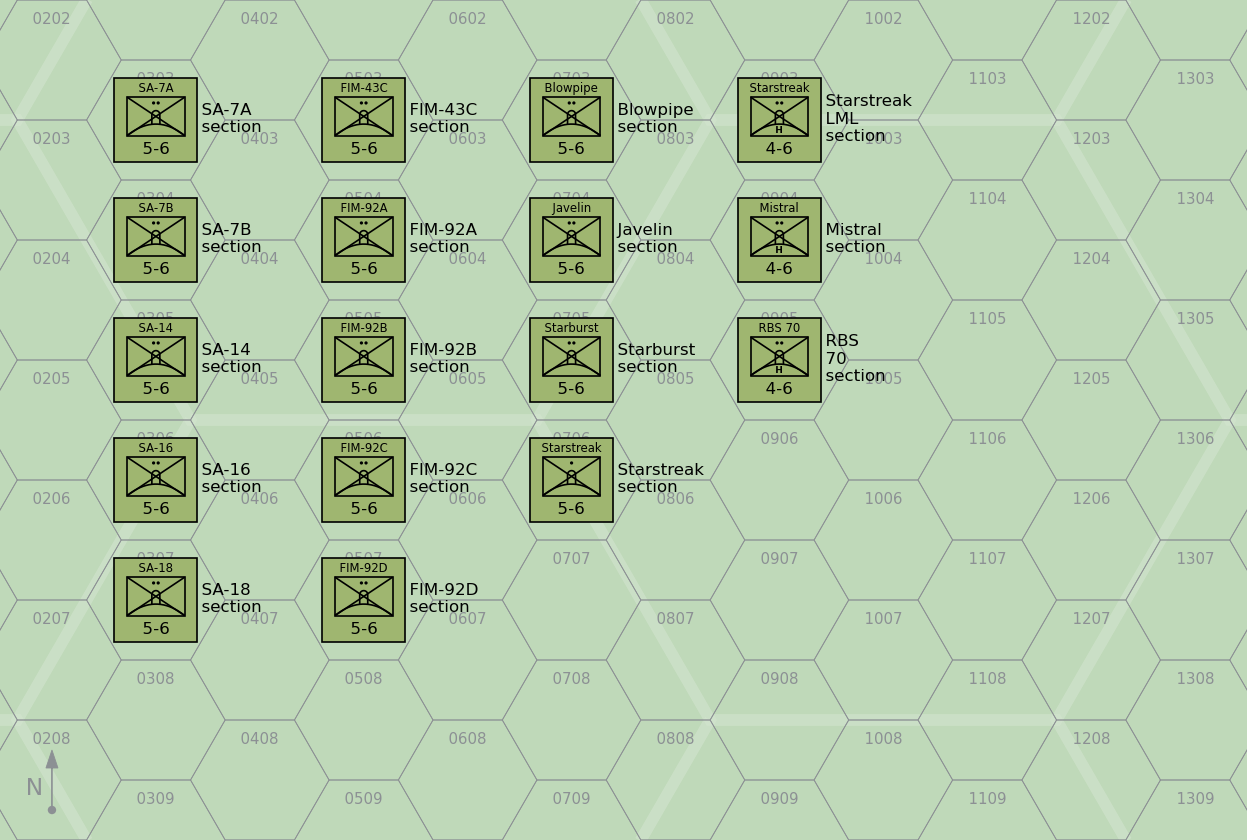
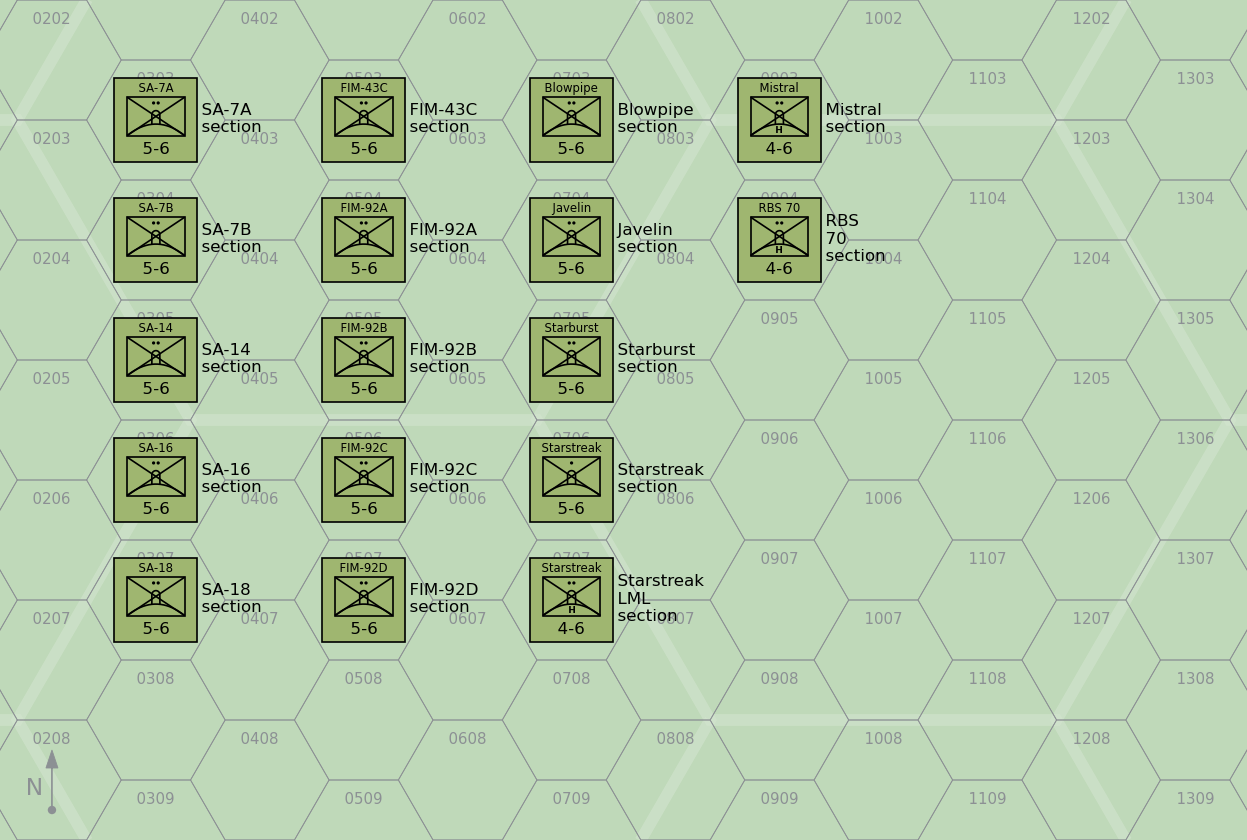
Heavy infantry SAMs have unlimited mobility

diff --git a/groundunitdatatables/groundunitdata.tex b/groundunitdatatables/groundunitdata.tex
@@ -88,9 +88,9 @@ A ground unit can be a hard, open, or soft target according to the degree to whi
 
 A ground unit has a mobility that can place limits on where it may be placed at the start of a game and move on the map. A ground unit can have unrestricted (U), good (G), or poor (P) mobility:
 \begin{itemize}
-    \item An infantry unit, except an infantry heavy weapons unit, has unrestricted mobility;
+    \item An infantry unit has unrestricted mobility;
     \item An AFV unit, both tracked and wheeled, or a tracked carrier unit has good mobility; and
-    \item A truck unit, a towed unit, or an infantry heavy weapons unit has poor mobility.
+    \item A truck unit or a towed unit has poor mobility.
 \end{itemize}
 
 A ground unit may occupy hexes according to its mobility and the following rules:
@@ -125,7 +125,7 @@ Figure~\ref{figure:mobility} illustrates these rules: a unit with poor mobility 
     \label{figure:mobility}
 \end{figure}
 
-A scenario may remove some of these restrictions or add others. For example, a scenario with airmobile forces might allow a towed artillery battery to have been transported by helicopter to any clear hex, and one set in the open desert of southern Iraq might allow a truck platoon freedom to occupy any clear hex.
+A scenario may remove some of these restrictions or add others. For example, a scenario with airmobile forces might allow a towed artillery battery to have been transported by helicopter to a clear hex far from a road, trail, runway, or urban hex, and another set in the open desert of southern Iraq might allow a truck platoon freedom to occupy any clear hex.
 
 \subsection{Representation}
 \begin{comment}
@@ -136,15 +136,15 @@ Figures \ref{figure:ground-combat-units}, \ref{figure:aaa-units}, \ref{figure:ra
 
 The representation is based on NATO symbols, including those for infantry, armor, anti-armor, air defense, guns, missiles, tube artillery, and rocket artillery. One addition is that a rectangle denotes an unarmored vehicle such as a truck or tracked carrier. All vehicular units have either an armor or unarmored vehicle symbol, all infantry units have an infantry symbol, and towed units have none of these.
 
-The letter T in the central position indicates a transport capacity (e.g., APCs, IFVs, cargo trucks, and tracked cargo carriers). For an armored vehicle unit, one of the letters H, M, L, and O in the lower position indicate heavy, medium, light, and open armored protection. For an infantry unit, a letter H in the lower position indicates a heavy weapons unit.
-
-An armored unit implicitly has good mobility. A truck unit has poor mobility if it has a two-wheeled symbol in the lower position and good mobility if it has a three-wheeled, half-tracked, or tracked symbol in the lower position. An infantry unit implicitly has unrestricted mobility, unless it has a letter H in the lower position, in which case it is a heavy weapons unit with poor mobility.
+The letter T in the central position indicates a transport capacity (e.g., APCs, IFVs, cargo trucks, and tracked cargo carriers). Words and letters in the lower position indicate variants on a basic type: the letters H, M, L, and O on an armored unit indicate heavy, medium, light, and open armored protection; the words WPN or FAC on an infantry unit indicates a weapons or FAC unit; and the letter H on an infantry SAM unit indicates a heavy version of the launcher (e.g., the LML version of Starstreak).
 
 The size of a unit is indicated by one, two, or three dots (for squads, sections, or platoons) or one vertical bar (for batteries) in an upper position.
 
+Implicitly, an infantry unit has unrestricted mobility, an armored unit has good mobility, and a towed unit has poor mobility. A truck unit has poor mobility if it has a two-wheeled symbol in the lower position and good mobility if it has a three-wheeled, half-tracked, or tracked symbol in the lower position.
+
 \section{Ground-Combat Units}
 
-A ground-combat unit represents infantry, tanks, or other AFVs, trucks, tracked carriers, or artillery. Its primary role is combat with other ground units.
+A ground-combat unit represents a combat formation of infantry, tanks or other AFVs, trucks, tracked carriers, or artillery. Its primary role is combat with other ground units.
 
 Figure~\ref{figure:ground-combat-units} shows the representation of ground-combat units as counters, and Table~\ref{table:ground-combat-units} summarizes their properties. The AAA class is B2 for infantry platoons and B3 for AFV platoons, indicating that they are capable of barrage fire to altitudes of 2 and 3 levels, respectively.
 
@@ -280,7 +280,7 @@ A towed unit may not mount or dismount during the game.
 
 At the start of a game, an infantry, infantry weapons, or infantry HQ platoon may \emph{attach} one or two infantry squads or one infantry section to form a \emph{composite platoon}. The attached units are commonly infantry SAM or FAC units. Once formed, a composite platoon may not be split into its constituent units.
 
-A composite platoon is considered to have the mobility of the least mobile of its constituent units. Its defense strength is unchanged.
+A composite platoon has the same damage resilience, defense strength, target class, mobility, and sighting range of its constituent platoon.
 
 An attached unit is not represented by a separate counter, does not count for stacking, and may not be attacked directly, but instead is considered to form part of the composite platoon.
 An attached unit retains its normal capabilities (i.e., an attached SAM unit may engage aircraft and an attached FAC unit may sight and mark targets).
@@ -288,7 +288,7 @@ An attached unit retains its normal capabilities (i.e., an attached SAM unit may
 If a composite platoon is suppressed, each attached unit is suppressed too.
 If a composite platoon suffers damage, then for each D of damage, roll one die for each attached unit and on a \minusafter{4} the attached unit suffers one D of damage.
 As usual, an attached unit that suffers damage equal to its damage resilience is killed.
-If a composite platoon is killed, each attached unit is killed too.
+If a composite platoon is killed, each attached unit is killed too. VPs are awarded for damage to any of the constituent units.
 
 A scenario may add further restrictions on composite platoons.
 
@@ -624,20 +624,20 @@ Starstreak served with the British Army in the 2003 Invasion of Iraq, but was no
 
 \subsubsection{Starstreak LML Squad or Section}
 
-The Starstreak Light Multiple Launcher (LML) has three ready-to-fire Starstreak missiles on a pedestal mount with a single sighting unit. It is an infantry heavy weapon, and squads and sections equipped with it have poor mobility.
+The Starstreak Light Multiple Launcher (LML) has three ready-to-fire Starstreak missiles on a pedestal mount with a single sighting unit. The launcher and its associated equipment are heavy and will normally be transported by a vehicle unit.
 
 Starstreak LML entered service with the British Army and Royal Marines in 2000.
 It is also used by Indonesia, Malaysia, and South Africa.
 
 \subsubsection{Mistral Squad or Section}
 
-The Mistral is a French IR-homing missile on a pedestal mount. The missile has a considerably larger warhead than either the Stinger or Igla missiles, but this comes at a cost in portability. Mistral is an infantry heavy weapon, and squads and sections equipped with it have poor mobility.
+The Mistral is a French IR-homing missile on a pedestal mount. The missile has a considerably larger warhead than either the Stinger or Igla missiles, but this comes at a cost in portability. The launcher and its associated equipment are heavy and will normally be transported by a vehicle unit.
 
 The Mistral entered service with the French Army in 1990. It was subsequently exported to many other countries.
 
 \subsubsection{RBS 70 Squad or Section}
 
-The RBS 70 is a Swedish laser-guided missile on a pedestal mount. It is an infantry heavy weapon, and squads and sections equipped with it have poor mobility.
+The RBS 70 is a Swedish laser-guided missile on a pedestal mount. The launcher and its associated equipment are heavy and will normally be transported by a vehicle unit.
 
 The RBS 70 entered service with the Swedish Army in 1977. It was subsequently used by Argentina, Australia, Bahrain, Brazil, the Czech Republic, Iran, Ireland, Lithuania, Norway, Pakistan, Singapore, Thailand, Tunisia, the UAE, Ukraine, and Venezuela.
 

diff --git a/groundunitdatatables/table-infantry-sam-units.tex b/groundunitdatatables/table-infantry-sam-units.tex
@@ -84,16 +84,14 @@ Starburst &\wbox[l]{Section}{Squad}&1989&\wbox[l]{0}{5}&\wbox{00}{6}&U&\wbox{00/
 Starstreak &\wbox[l]{Section}{Squad}&2000&\wbox[l]{0}{5}&\wbox{00}{6}&U&\wbox{00/00/00}{\wbox[c]{0}{--}/24/12}&Starstreak&\wbox{0}{2}&\wbox{0}{2}&\wbox{0}{4}&2&Y&Y&---&7&\wbox{00}{12}&\\
 Starstreak &\wbox[l]{Section}{Squad}&2000&\wbox[l]{0}{5}&\wbox{00}{6}&U&\wbox{00/00/00}{\wbox[c]{0}{--}/\wbox[c]{0}{--}/12}&Starstreak&\wbox{0}{1}&\wbox{0}{1}&\wbox{0}{2}&---&Y&Y&---&7&\wbox{00}{12}&\\
 \addlinespace
-\midrule
+Starstreak LML &\wbox[l]{Section}{Section}&2000&\wbox[l]{0}{4}&\wbox{00}{6}&U&\wbox{00/00/00}{\wbox[c]{0}{--}/28/14}&Starstreak&\wbox{0}{6}&\wbox{0}{2}&\wbox{0}{0}&2&Y&Y&---&7&\wbox{00}{12}&\\
+Starstreak LML &\wbox[l]{Section}{Squad}&2000&\wbox[l]{0}{4}&\wbox{00}{6}&U&\wbox{00/00/00}{\wbox[c]{0}{--}/\wbox[c]{0}{--}/14}&Starstreak&\wbox{0}{3}&\wbox{0}{1}&\wbox{0}{0}&---&Y&Y&---&7&\wbox{00}{12}&\\
 \addlinespace
-Starstreak LML &\wbox[l]{Section}{Section}&2000&\wbox[l]{0}{4}&\wbox{00}{6}&P&\wbox{00/00/00}{\wbox[c]{0}{--}/28/14}&Starstreak&\wbox{0}{6}&\wbox{0}{2}&\wbox{0}{0}&2&Y&Y&---&7&\wbox{00}{12}&\\
-Starstreak LML &\wbox[l]{Section}{Squad}&2000&\wbox[l]{0}{4}&\wbox{00}{6}&P&\wbox{00/00/00}{\wbox[c]{0}{--}/\wbox[c]{0}{--}/14}&Starstreak&\wbox{0}{3}&\wbox{0}{1}&\wbox{0}{0}&---&Y&Y&---&7&\wbox{00}{12}&\\
+Mistral &\wbox[l]{Section}{Section}&1990&\wbox[l]{0}{4}&\wbox{00}{6}&U&\wbox{00/00/00}{\wbox[c]{0}{--}/22/11}&Mistral&\wbox{0}{2}&\wbox{0}{2}&\wbox{0}{4}&2&Y&---&---&7&\wbox{00}{12}&\\
+Mistral &\wbox[l]{Section}{Squad}&1990&\wbox[l]{0}{4}&\wbox{00}{6}&U&\wbox{00/00/00}{\wbox[c]{0}{--}/\wbox[c]{0}{--}/11}&Mistral&\wbox{0}{1}&\wbox{0}{1}&\wbox{0}{2}&---&Y&---&---&7&\wbox{00}{12}&\\
 \addlinespace
-Mistral &\wbox[l]{Section}{Section}&1990&\wbox[l]{0}{4}&\wbox{00}{6}&P&\wbox{00/00/00}{\wbox[c]{0}{--}/22/11}&Mistral&\wbox{0}{2}&\wbox{0}{2}&\wbox{0}{4}&2&Y&---&---&7&\wbox{00}{12}&\\
-Mistral &\wbox[l]{Section}{Squad}&1990&\wbox[l]{0}{4}&\wbox{00}{6}&P&\wbox{00/00/00}{\wbox[c]{0}{--}/\wbox[c]{0}{--}/11}&Mistral&\wbox{0}{1}&\wbox{0}{1}&\wbox{0}{2}&---&Y&---&---&7&\wbox{00}{12}&\\
-\addlinespace
-RBS 70 &\wbox[l]{Section}{Section}&1977&\wbox[l]{0}{4}&\wbox{00}{6}&P&\wbox{00/00/00}{\wbox[c]{0}{--}/16/8}&RBS 70&\wbox{0}{2}&\wbox{0}{2}&\wbox{0}{4}&2&Y&Y&---&7&\wbox{00}{10}&\\
-RBS 70 &\wbox[l]{Section}{Squad}&1977&\wbox[l]{0}{4}&\wbox{00}{6}&P&\wbox{00/00/00}{\wbox[c]{0}{--}/\wbox[c]{0}{--}/8}&RBS 70&\wbox{0}{1}&\wbox{0}{1}&\wbox{0}{2}&---&Y&Y&---&7&\wbox{00}{10}&\\
+RBS 70 &\wbox[l]{Section}{Section}&1977&\wbox[l]{0}{4}&\wbox{00}{6}&U&\wbox{00/00/00}{\wbox[c]{0}{--}/16/8}&RBS 70&\wbox{0}{2}&\wbox{0}{2}&\wbox{0}{4}&2&Y&Y&---&7&\wbox{00}{10}&\\
+RBS 70 &\wbox[l]{Section}{Squad}&1977&\wbox[l]{0}{4}&\wbox{00}{6}&U&\wbox{00/00/00}{\wbox[c]{0}{--}/\wbox[c]{0}{--}/8}&RBS 70&\wbox{0}{1}&\wbox{0}{1}&\wbox{0}{2}&---&Y&Y&---&7&\wbox{00}{10}&\\
 \addlinespace
 \bottomrule
 \end{tabular}
